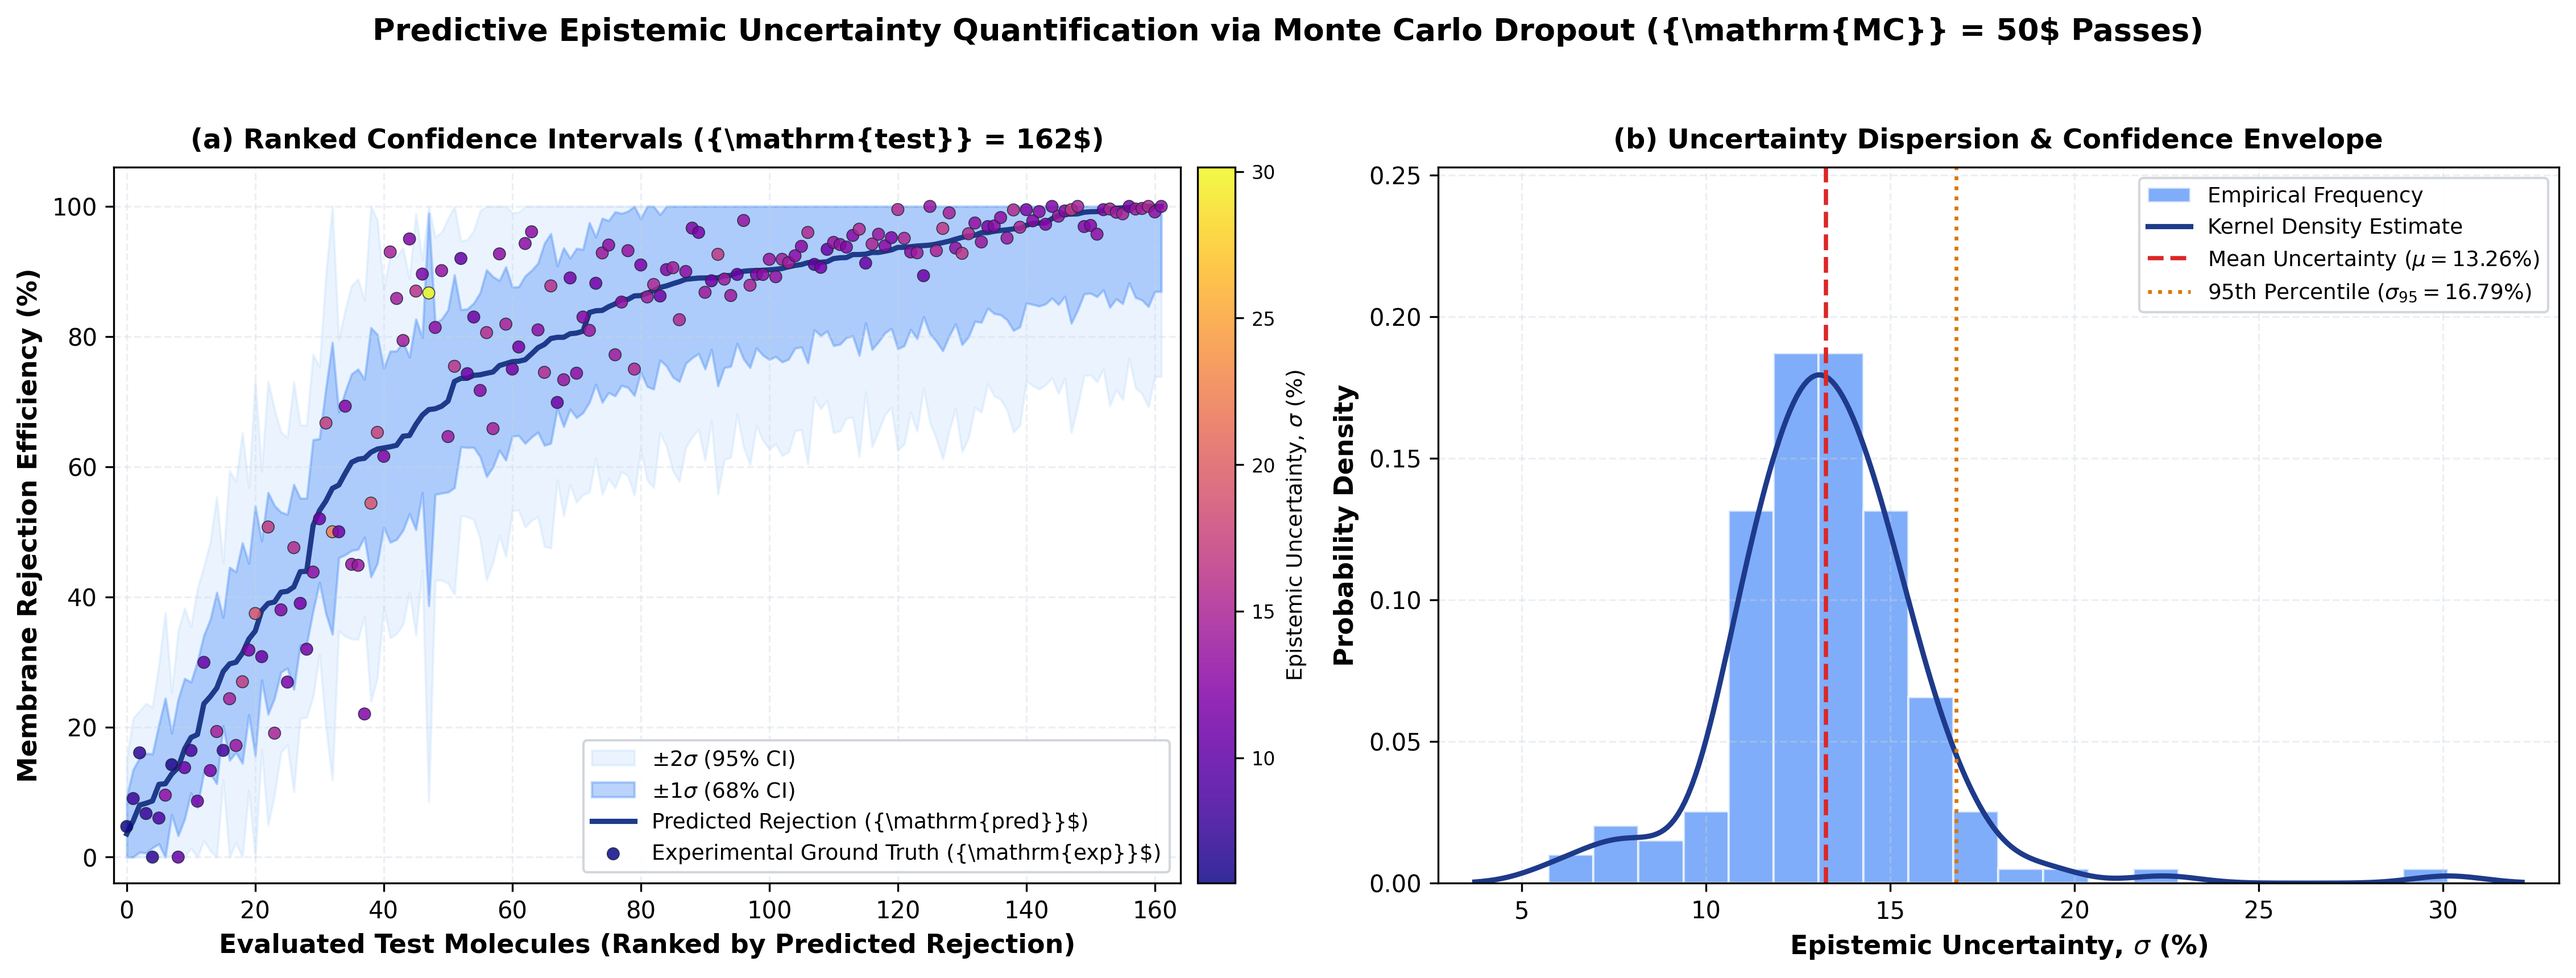
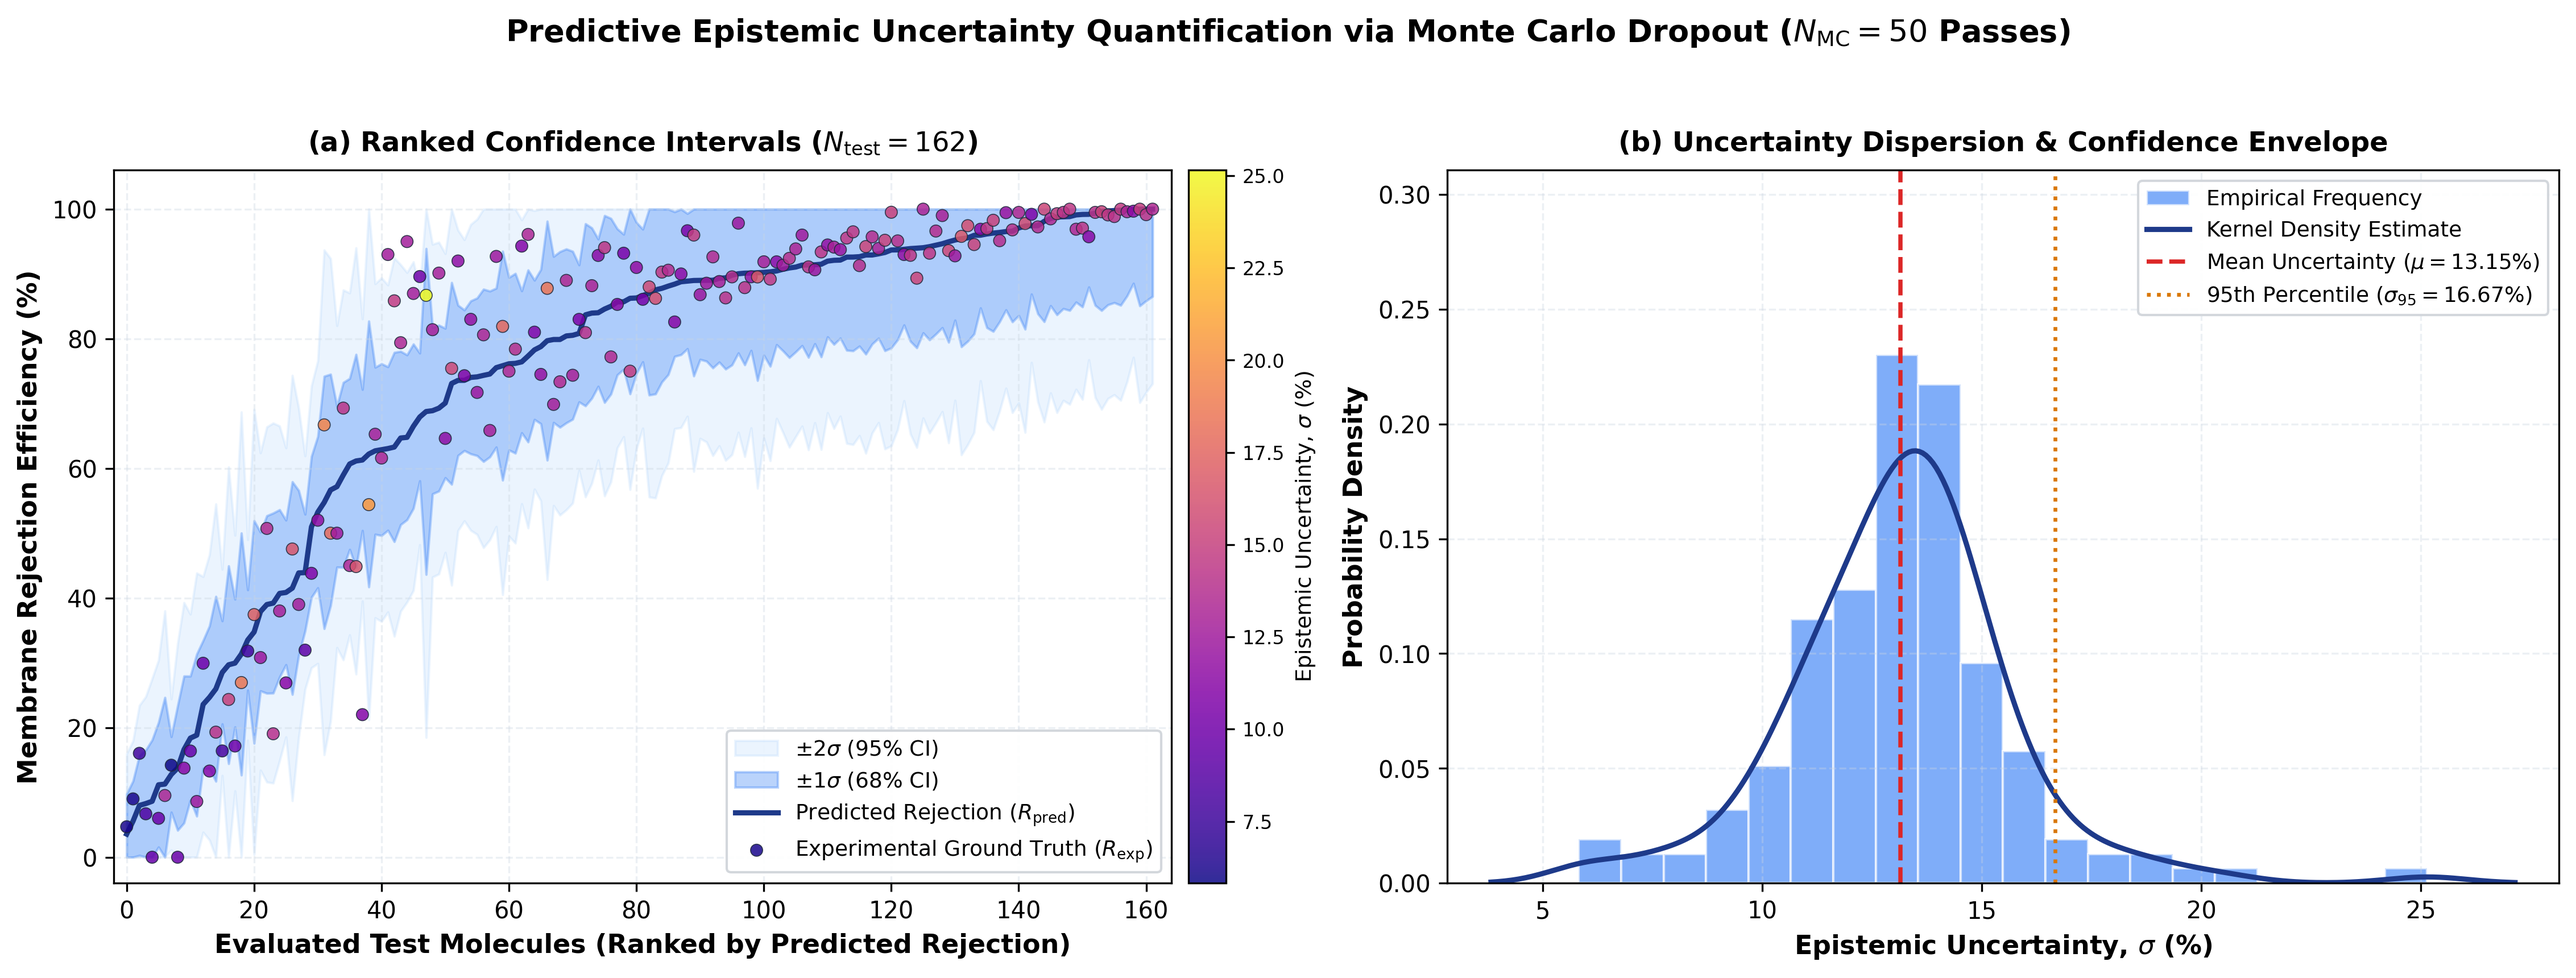
fix(fig7): Permanently fix mathtext delimiter rendering via safe character encoding

diff --git a/src/generate_paper_figures.py b/src/generate_paper_figures.py
@@ -642,60 +642,60 @@ def generate_figure7(inf):
     ss  = gt_stds[idx]
     st  = y_true[idx]
 
+    plt.rcdefaults()
+    D = chr(36)
+
     fig, (ax1, ax2) = plt.subplots(1, 2, figsize=(15.2, 5.8), dpi=DPI)
-    fig.suptitle(r"Predictive Epistemic Uncertainty Quantification via Monte Carlo Dropout ($N_{\mathrm{MC}} = 50$ Passes)",
+    fig.suptitle('Predictive Epistemic Uncertainty Quantification via Monte Carlo Dropout (' + D + 'N_{\\mathrm{MC}} = 50' + D + ' Passes)',
                  fontsize=13, fontweight='bold', y=0.98)
 
     # ── Panel A: Uncertainty Bands ──
     ax1.fill_between(sx, np.clip(sp - 2*ss, 0, 100), np.clip(sp + 2*ss, 0, 100),
-                     alpha=0.18, color='#93C5FD', label=r'$\pm 2\sigma$ ($95\%$ Confidence Interval)')
+                     alpha=0.18, color='#93C5FD', label=D + '\\pm 2\\sigma' + D + ' (95% CI)')
     ax1.fill_between(sx, np.clip(sp - ss, 0, 100), np.clip(sp + ss, 0, 100),
-                     alpha=0.35, color='#3B82F6', label=r'$\pm 1\sigma$ ($68\%$ Confidence Interval)')
-    ax1.plot(sx, sp, color='#1E3A8A', lw=2.2, label=r'Predicted Rejection ($R_{\mathrm{pred}}$)', zorder=4)
+                     alpha=0.35, color='#3B82F6', label=D + '\\pm 1\\sigma' + D + ' (68% CI)')
+    ax1.plot(sx, sp, color='#1E3A8A', lw=2.2, label='Predicted Rejection (' + D + 'R_{\\mathrm{pred}}' + D + ')', zorder=4)
 
     sc = ax1.scatter(sx, st, c=ss, cmap='plasma', s=26, alpha=0.85,
-                     edgecolors='#1E293B', linewidths=0.4, zorder=5, label=r'Experimental ($R_{\mathrm{exp}}$)')
+                     edgecolors='#1E293B', linewidths=0.4, zorder=5, label='Experimental Ground Truth (' + D + 'R_{\\mathrm{exp}}' + D + ')')
 
     ax1.set_xlim(-2, len(sx) + 2)
     ax1.set_ylim(-4, 106)
     ax1.set_yticks([0, 20, 40, 60, 80, 100])
-    ax1.set_xlabel(r"Evaluated Test Molecules (Ranked by Predicted Rejection)", fontsize=11.0, fontweight='bold')
-    ax1.set_ylabel(r"Membrane Rejection Efficiency (%)", fontsize=11.0, fontweight='bold')
-    ax1.set_title(r"(a) Ranked Confidence Intervals ($N_{\mathrm{test}} = 162$)", fontsize=11.5, fontweight='bold', pad=8)
+    ax1.set_xlabel('Evaluated Test Molecules (Ranked by Predicted Rejection)', fontsize=11.0, fontweight='bold')
+    ax1.set_ylabel('Membrane Rejection Efficiency (%)', fontsize=11.0, fontweight='bold')
+    ax1.set_title('(a) Ranked Confidence Intervals (' + D + 'N_{\\mathrm{test}} = 162' + D + ')', fontsize=11.5, fontweight='bold', pad=8)
 
-    # Lower right quadrant is completely clear of all data points
     ax1.legend(fontsize=9.0, loc='lower right', framealpha=0.95, edgecolor='#D1D5DB')
     ax1.grid(True, linestyle='--', alpha=0.35, color='#CBD5E1')
 
-    # Colorbar on Panel A for point uncertainty
     divider = make_axes_locatable(ax1)
     cax = divider.append_axes("right", size="3.5%", pad=0.10)
     cb = fig.colorbar(sc, cax=cax)
-    cb.set_label(r'Epistemic Uncertainty, $\sigma$ (%)', fontsize=9.2)
+    cb.set_label('Epistemic Uncertainty, ' + D + '\\sigma' + D + ' (%)', fontsize=9.2)
     cb.ax.tick_params(labelsize=8.0)
 
     # ── Panel B: Histogram & Density Distribution ──
     counts, bins, _ = ax2.hist(gt_stds, bins=20, density=True, color='#3B82F6',
-                               edgecolor='white', lw=0.8, alpha=0.65, label=r'Empirical Frequency')
+                               edgecolor='white', lw=0.8, alpha=0.65, label='Empirical Frequency')
 
-    # Smooth KDE line
     kde = gaussian_kde(gt_stds)
     x_kde = np.linspace(min(gt_stds) - 2, max(gt_stds) + 2, 300)
-    ax2.plot(x_kde, kde(x_kde), color='#1E3A8A', lw=2.2, label=r'Kernel Density Estimate')
+    ax2.plot(x_kde, kde(x_kde), color='#1E3A8A', lw=2.2, label='Kernel Density Estimate')
 
     mean_s = float(gt_stds.mean())
     p95_s  = float(np.percentile(gt_stds, 95))
     ax2.axvline(mean_s, color='#DC2626', lw=1.8, ls='--',
-                label=rf"Mean Uncertainty ($\mu = {mean_s:.2f}\%$)")
+                label='Mean Uncertainty (' + D + '\\mu = ' + f'{mean_s:.2f}\\%' + D + ')')
     ax2.axvline(p95_s, color='#D97706', lw=1.6, ls=':',
-                label=rf"95th Percentile ($\sigma_{{95}} = {p95_s:.2f}\%$)")
+                label='95th Percentile (' + D + '\\sigma_{95} = ' + f'{p95_s:.2f}\\%' + D + ')')
 
     max_dens = max(kde(x_kde).max(), counts.max())
     ax2.set_ylim(0, max_dens * 1.35)
     ax2.set_xlim(min(gt_stds) - 3, max(gt_stds) + 3)
-    ax2.set_xlabel(r"Epistemic Uncertainty, $\sigma$ (%)", fontsize=11.0, fontweight='bold')
-    ax2.set_ylabel(r"Probability Density", fontsize=11.0, fontweight='bold')
-    ax2.set_title(r"(b) Uncertainty Dispersion & Confidence Envelope", fontsize=11.5, fontweight='bold', pad=8)
+    ax2.set_xlabel('Epistemic Uncertainty, ' + D + '\\sigma' + D + ' (%)', fontsize=11.0, fontweight='bold')
+    ax2.set_ylabel('Probability Density', fontsize=11.0, fontweight='bold')
+    ax2.set_title('(b) Uncertainty Dispersion & Confidence Envelope', fontsize=11.5, fontweight='bold', pad=8)
     ax2.legend(fontsize=9.0, loc='upper right', framealpha=0.95, edgecolor='#D1D5DB')
     ax2.grid(True, linestyle='--', alpha=0.35, color='#CBD5E1')
 
